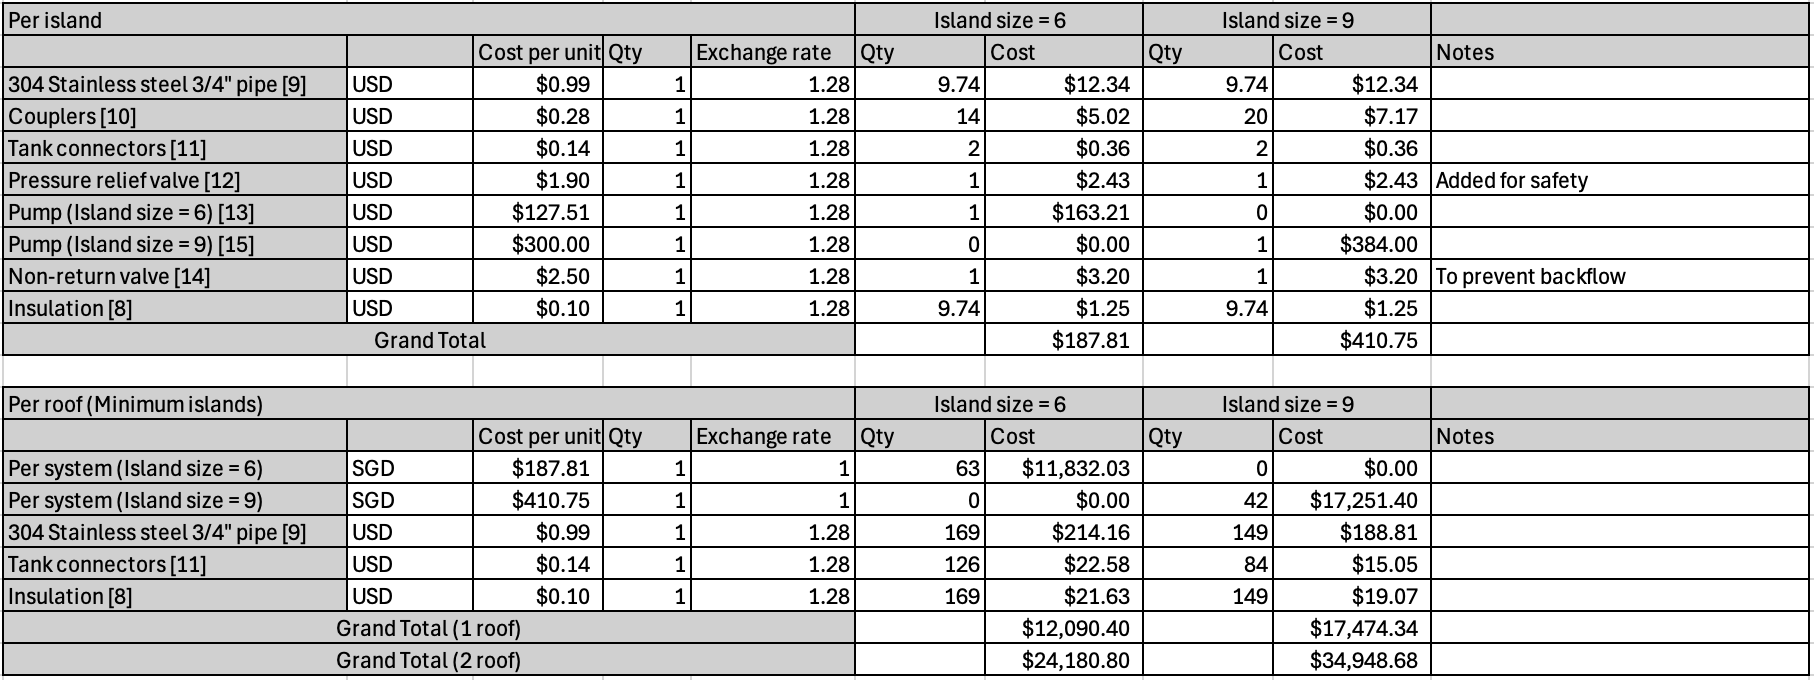
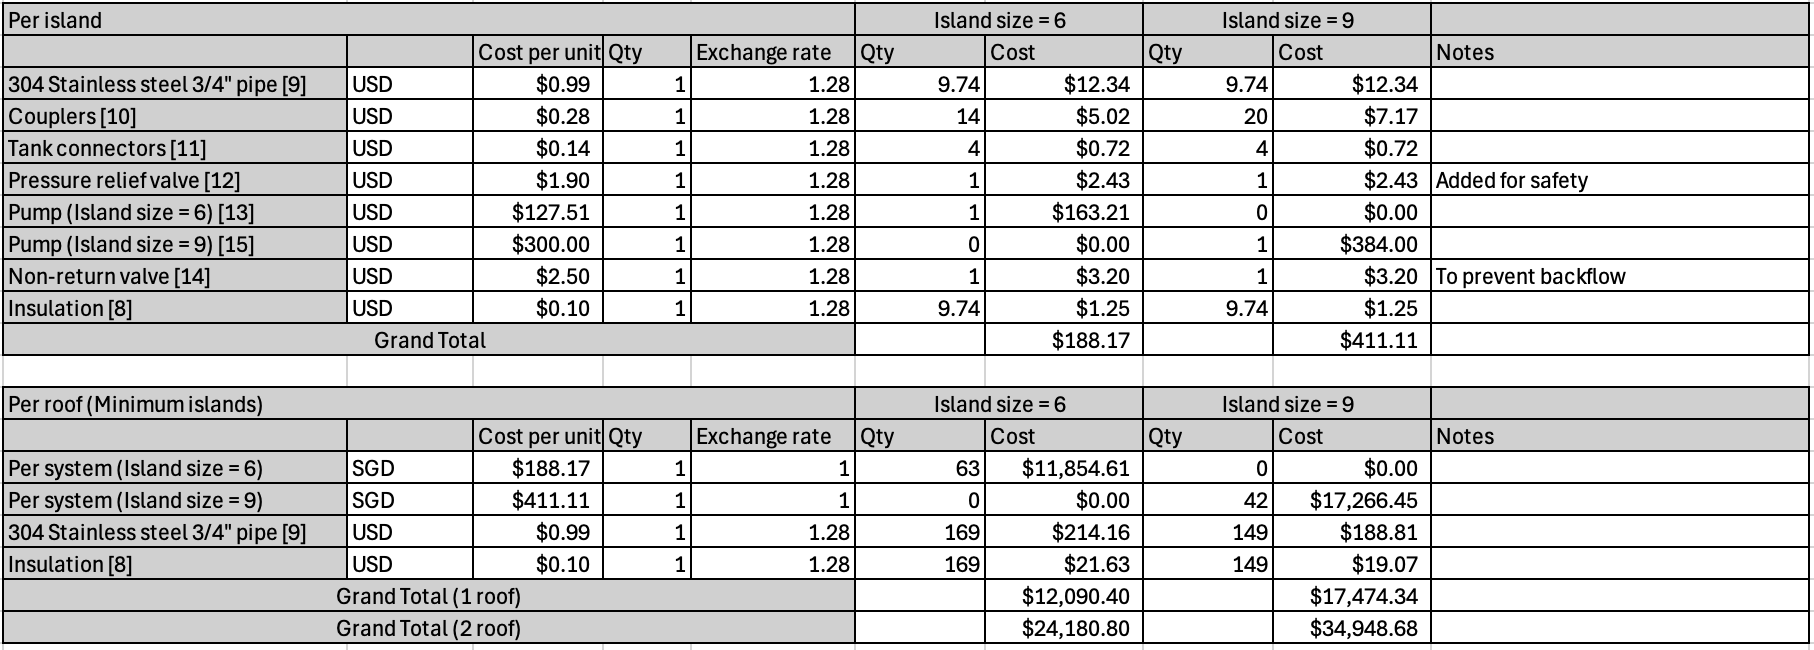
tt

Changed region(s): [[0.0, 0.0, 1.0, 1.0]]

diff --git a/ch5.html b/ch5.html
@@ -181,7 +181,7 @@
         <image-component tag="image" source="assets/tt_final/cost-analysis-tt.jpg"
           subtitle="Table XXX: Cost analysis of thermal transmission subsystem only (Design 1)"></image-component>
         <p>
-          Per rig, island size 6 is cheaper by SGD $14.48 (31.63%), and for the entire system (two roofs), it is cheaper by SGD $19,582.14 (32.70%). Overall, island size 6 offers lower cost while only incurring a minimal reduction in energy output, making it the more economical option. However, despite this reduction, the overall system cost remains high, resulting in a long breakeven period.
+          Per rig, island size 6 is cheaper by SGD $14.51 (31.64%), and for the entire system (two roofs), it is cheaper by SGD $19,582.14 (32.70%). Overall, island size 6 offers lower cost while only incurring a minimal reduction in energy output, making it the more economical option. However, despite this reduction, the overall system cost remains high, resulting in a long breakeven period.
         </p>
         <h4>Design 2: Meeting requirements</h4>
         <p>
@@ -207,7 +207,7 @@
         <image-component tag="image" source="assets/tt_final/cost-analysis-tt-minimum.jpg"
           subtitle="Table XXX: Cost analysis of thermal transmission subsystem only (Design 2)"></image-component>
         <p>
-          Per rig, island size 6 is cheaper by SGD$14.34 (31.41%) and overall 2 roof system for island size 6 is cheaper by SGD$10,767.88 (30.81%). The difference is largely due to the pumps, as the island size of 9 requires more expensive pumps to overcome the higher system head requirements. Overall, the island size 6 is best using the design focussed on meeting hotel requirements, making the cost of the thermal transmission section SGD$24,180.80.
+          Per rig, island size 6 is cheaper by SGD$14.32 (31.34%) and overall 2 roof system for island size 6 is cheaper by SGD$10,767.88 (30.81%). The difference is largely due to the pumps, as the island size of 9 requires more expensive pumps to overcome the higher system head requirements. Overall, the island size 6 is best using the design focussed on meeting hotel requirements, making the cost of the thermal transmission section SGD$24,180.80.
         </p>
         <p>
           Overall, the final thermal transmission system has a heat loss of 7.1722W/m, pipe loss of 11.6511% and power consumption of 10W per rig, [13] satisfying the design specifications.
